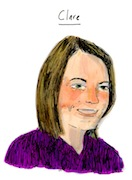
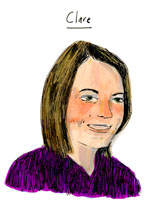
Adjusting portrait sizes. Reverting to old header styles but using different header img

diff --git a/style.css b/style.css
@@ -538,7 +538,7 @@ a:hover {
 	clear: both;
 	display: block;
 	float: left;
-	margin: 465px auto 6px;
+	margin: auto 6px;
 	width: 100%;
 }
 #access ul {
@@ -2736,16 +2736,19 @@ Unique Images for individual pages in nav bar
 	padding-bottom: 10px;
 	position: relative;
 	z-index: 9999;
+	/*
 	height: 459px !important;
+	*/
 	width: 100%;
+	/*
 	background: url('images/uspsblogheader-short.jpg') no-repeat;
+	*/
 	margin-bottom: -7px;
 }
 #branding a {
-	padding: 400px;
+	
 }
 #branding a img {
-	display: none;
 }
 
 /*
@@ -2768,7 +2771,9 @@ Universal style for the author widget items
 #secondary .widget.widget_nav_menu div ul li a {
 	float: left;
 	width: 150px;
-	height: 75px;
+	height: 180px;
+	margin-top: 4px;
+	text-align: center;
 	margin-left: 4px;
 	/* Making the link text dissappear so we 
 	can see background image instead*/
@@ -2776,25 +2781,26 @@ Universal style for the author widget items
 	text-decoration: none;
 }
 
+/* Theme for: USPS truck */
 
 /* Theme for: Mary Stephanos*/
 #secondary .widget.widget_nav_menu div ul li#menu-item-1450 a {
-	background: #fff url('images/stamp\ blog\ portrait-\ Mary.jpg') 40% 40% no-repeat;
+	background: #fff url('images/stamp\ blog\ portrait-Mary-small.jpg') center center no-repeat;
 }
-/* Clare LaVergne */
+/* Theme for: Clare LaVergne */
 #secondary .widget.widget_nav_menu div ul li#menu-item-1449 a {
-	background: #fff url('images/stamp\ blog\ portrait-Clare-small.jpg') 40% 40% no-repeat;
+	background: #fff url('images/stamp\ blog\ portrait-Clare-small.jpg') center center no-repeat;
 }
 
-/* Sonja Edison */
+/* Theme for: Sonja Edison */
 #secondary .widget.widget_nav_menu div ul li#menu-item-1453 a {
-	background: #fff url('images/stamp\ blog\ portrait-Sonja-small.jpg') 40% 40% no-repeat;
+	background: #fff url('images/stamp\ blog\ portrait-Sonja-small.jpg') center center no-repeat;
 	
 }
 
-/*Alan Siegel*/
+/* Theme for: Alan Siegel */
 #secondary .widget.widget_nav_menu div ul li#menu-item-1448 a {
-	background: #fff url('images/stamp\ blog\ portrait-Alan-small.jpg') 40% 40% no-repeat;
+	background: #fff url('images/stamp\ blog\ portrait-Alan-small.jpg') center center no-repeat;
 	
 }
 
@@ -2822,13 +2828,12 @@ Overwriting styles for gallery pages
 #post-1423 div.entry-content a img {
 	border: none !important;
 	width: 150px !important;
-	
-	overflow: hidden;
+	padding: 4px;
 	background: url('images/shadowAlpha.png') no-repeat bottom right !important;
 }
 #post-1423 div.entry-content a img:hover {
-	background: transparent;
 	border: none !important;
-	width: auto !important;
-	height: auto !important;
+	width: 150px !important;
+	padding: 8px;
+	border: yellow 2px solid !important;
 }
